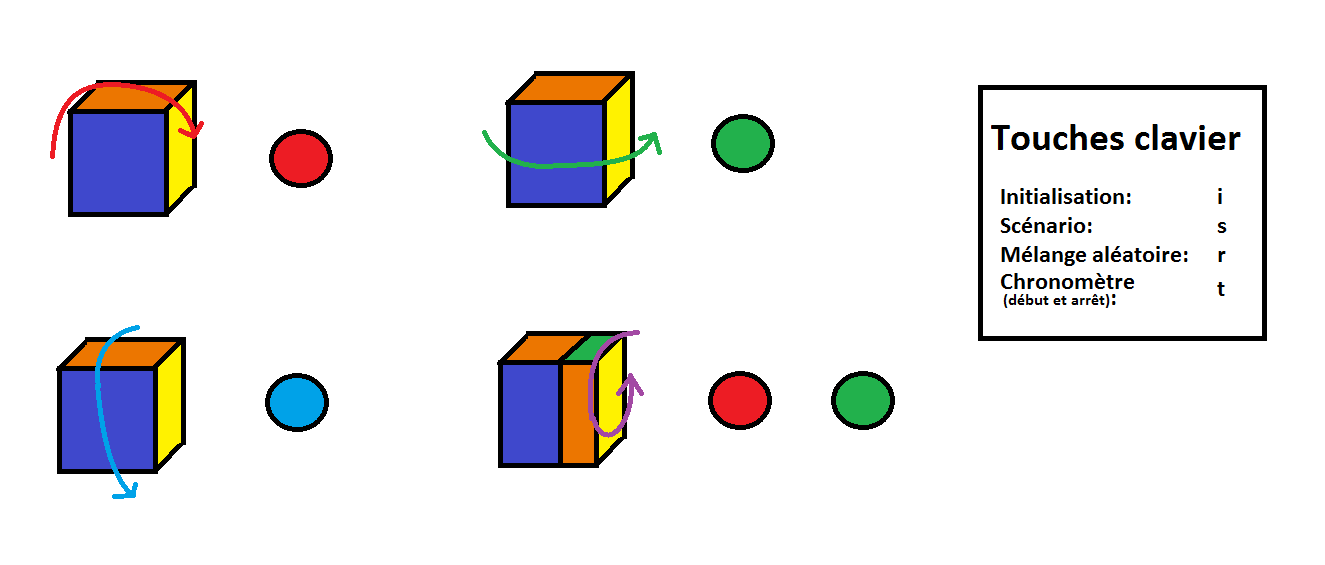
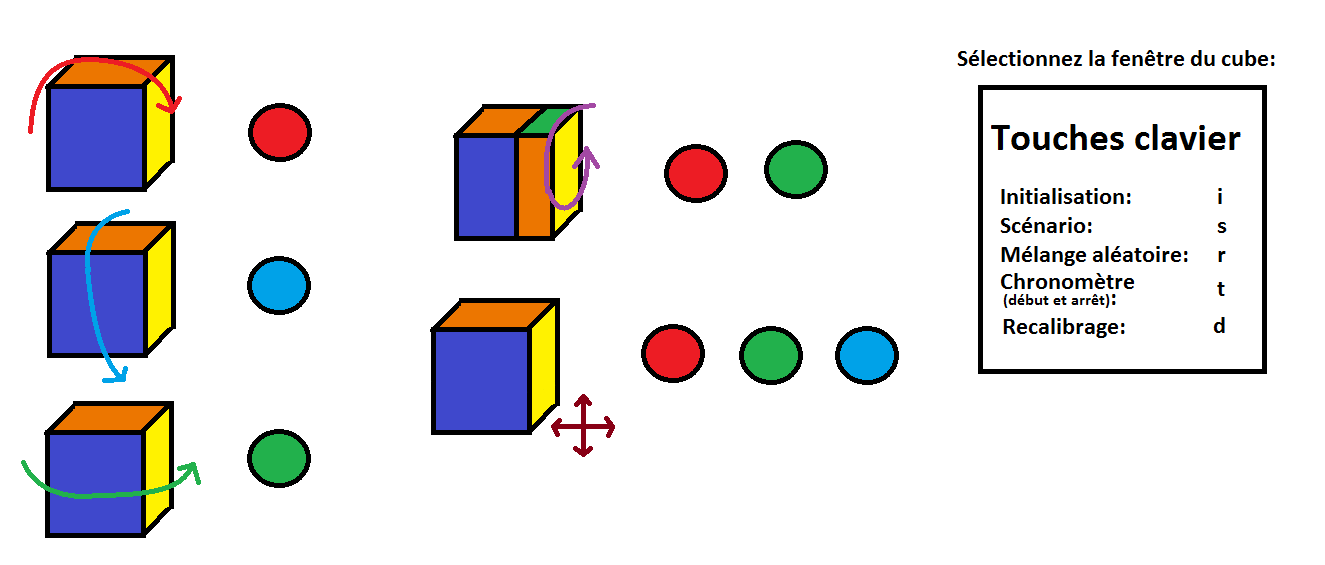
arrangement 4
arrangement du fichier et du chrono
arrangement de l'image png
création de la touche d : recalibrage

diff --git a/Projet/Projet/Interpreteur.cpp b/Projet/Projet/Interpreteur.cpp
@@ -177,12 +177,12 @@ void Interpreteur::rotation(vector<Centre> tabCentre, vector<Centre> tabNewCentr
 	// Vert  -> Rotation bas
 	if(((tabCentre.size() == 0 && tabNewCentre.size() == 2) || (tabCentre.size() == 2 && tabNewCentre.size() == 2)) && couleur[ROUGE] && couleurNew[ROUGE] && couleur[VERT] && couleurNew[VERT])
 	{
-		cout << "Va faire rotationuneface" <<endl; 
+		//cout << "Va faire rotationuneface" <<endl; 
 		rotationUneFace();
 	}
 	else if(tabCentre.size() == 1)
 	{
-		cout << " taille de 1" <<endl; 
+		//cout << " taille de 1" <<endl; 
 		if(couleur[ROUGE] && couleurNew[ROUGE])
 			rotationFace();
 		if(couleur[BLEU] && couleurNew[BLEU])
@@ -197,7 +197,7 @@ void Interpreteur::rotation(vector<Centre> tabCentre, vector<Centre> tabNewCentr
 bool Interpreteur::rotationBas()//vector<Centre> tabCentre, vector<Centre> tabNewCentre
 {
 	couleurTrouveePred=VERT;
-	cout<<"vert"<<endl;
+	//cout<<"vert"<<endl;
 	r->moveRY(); cptRotation++;
 
 	if(cptRotation*cranRotation >= maxRotation){
@@ -211,7 +211,7 @@ bool Interpreteur::rotationBas()//vector<Centre> tabCentre, vector<Centre> tabNe
 
 //ROUGE
 bool Interpreteur::rotationFace()
-{	cout<<"Rouge"<<endl;
+{	//cout<<"Rouge"<<endl;
 	couleurTrouveePred=ROUGE;
 	r->moveRX(); cptRotation++;
 	if(cptRotation*cranRotation >= maxRotation){
@@ -225,7 +225,7 @@ bool Interpreteur::rotationFace()
 //BLEU
 bool Interpreteur::rotationCote()//vector<Centre> tabCentre, vector<Centre> tabNewCentre
 {
-	cout<<"bleu"<<endl;
+	//cout<<"bleu"<<endl;
 	couleurTrouveePred=BLEU;
 	r->moveRZ(); // on fait une rotation
 	cptRotation++; 
@@ -243,7 +243,7 @@ bool Interpreteur::rotationUneFace()
 	r->moveRUF();
 	//cout<<"bleu"<<endl;
 	//couleurTrouveePred=BLEU;
-	cout<<"fait"<<endl;
+	//cout<<"fait"<<endl;
 	cptRotation++; 
 	if(cptRotation*cranRotation >= maxRotation){
 		faireRotation=false; 

diff --git a/Projet/Projet/RubixCube.h b/Projet/Projet/RubixCube.h
@@ -27,7 +27,7 @@ class RubixCube
 	bool rotating;
 	std::vector<int> axis,plane,
 		keypressed/*0=axis change, 1=plane change, 2=clockwise rot, 3=anticlockwise rot*/;
-	
+
 
 public:
 	string ensembleCommandes;
